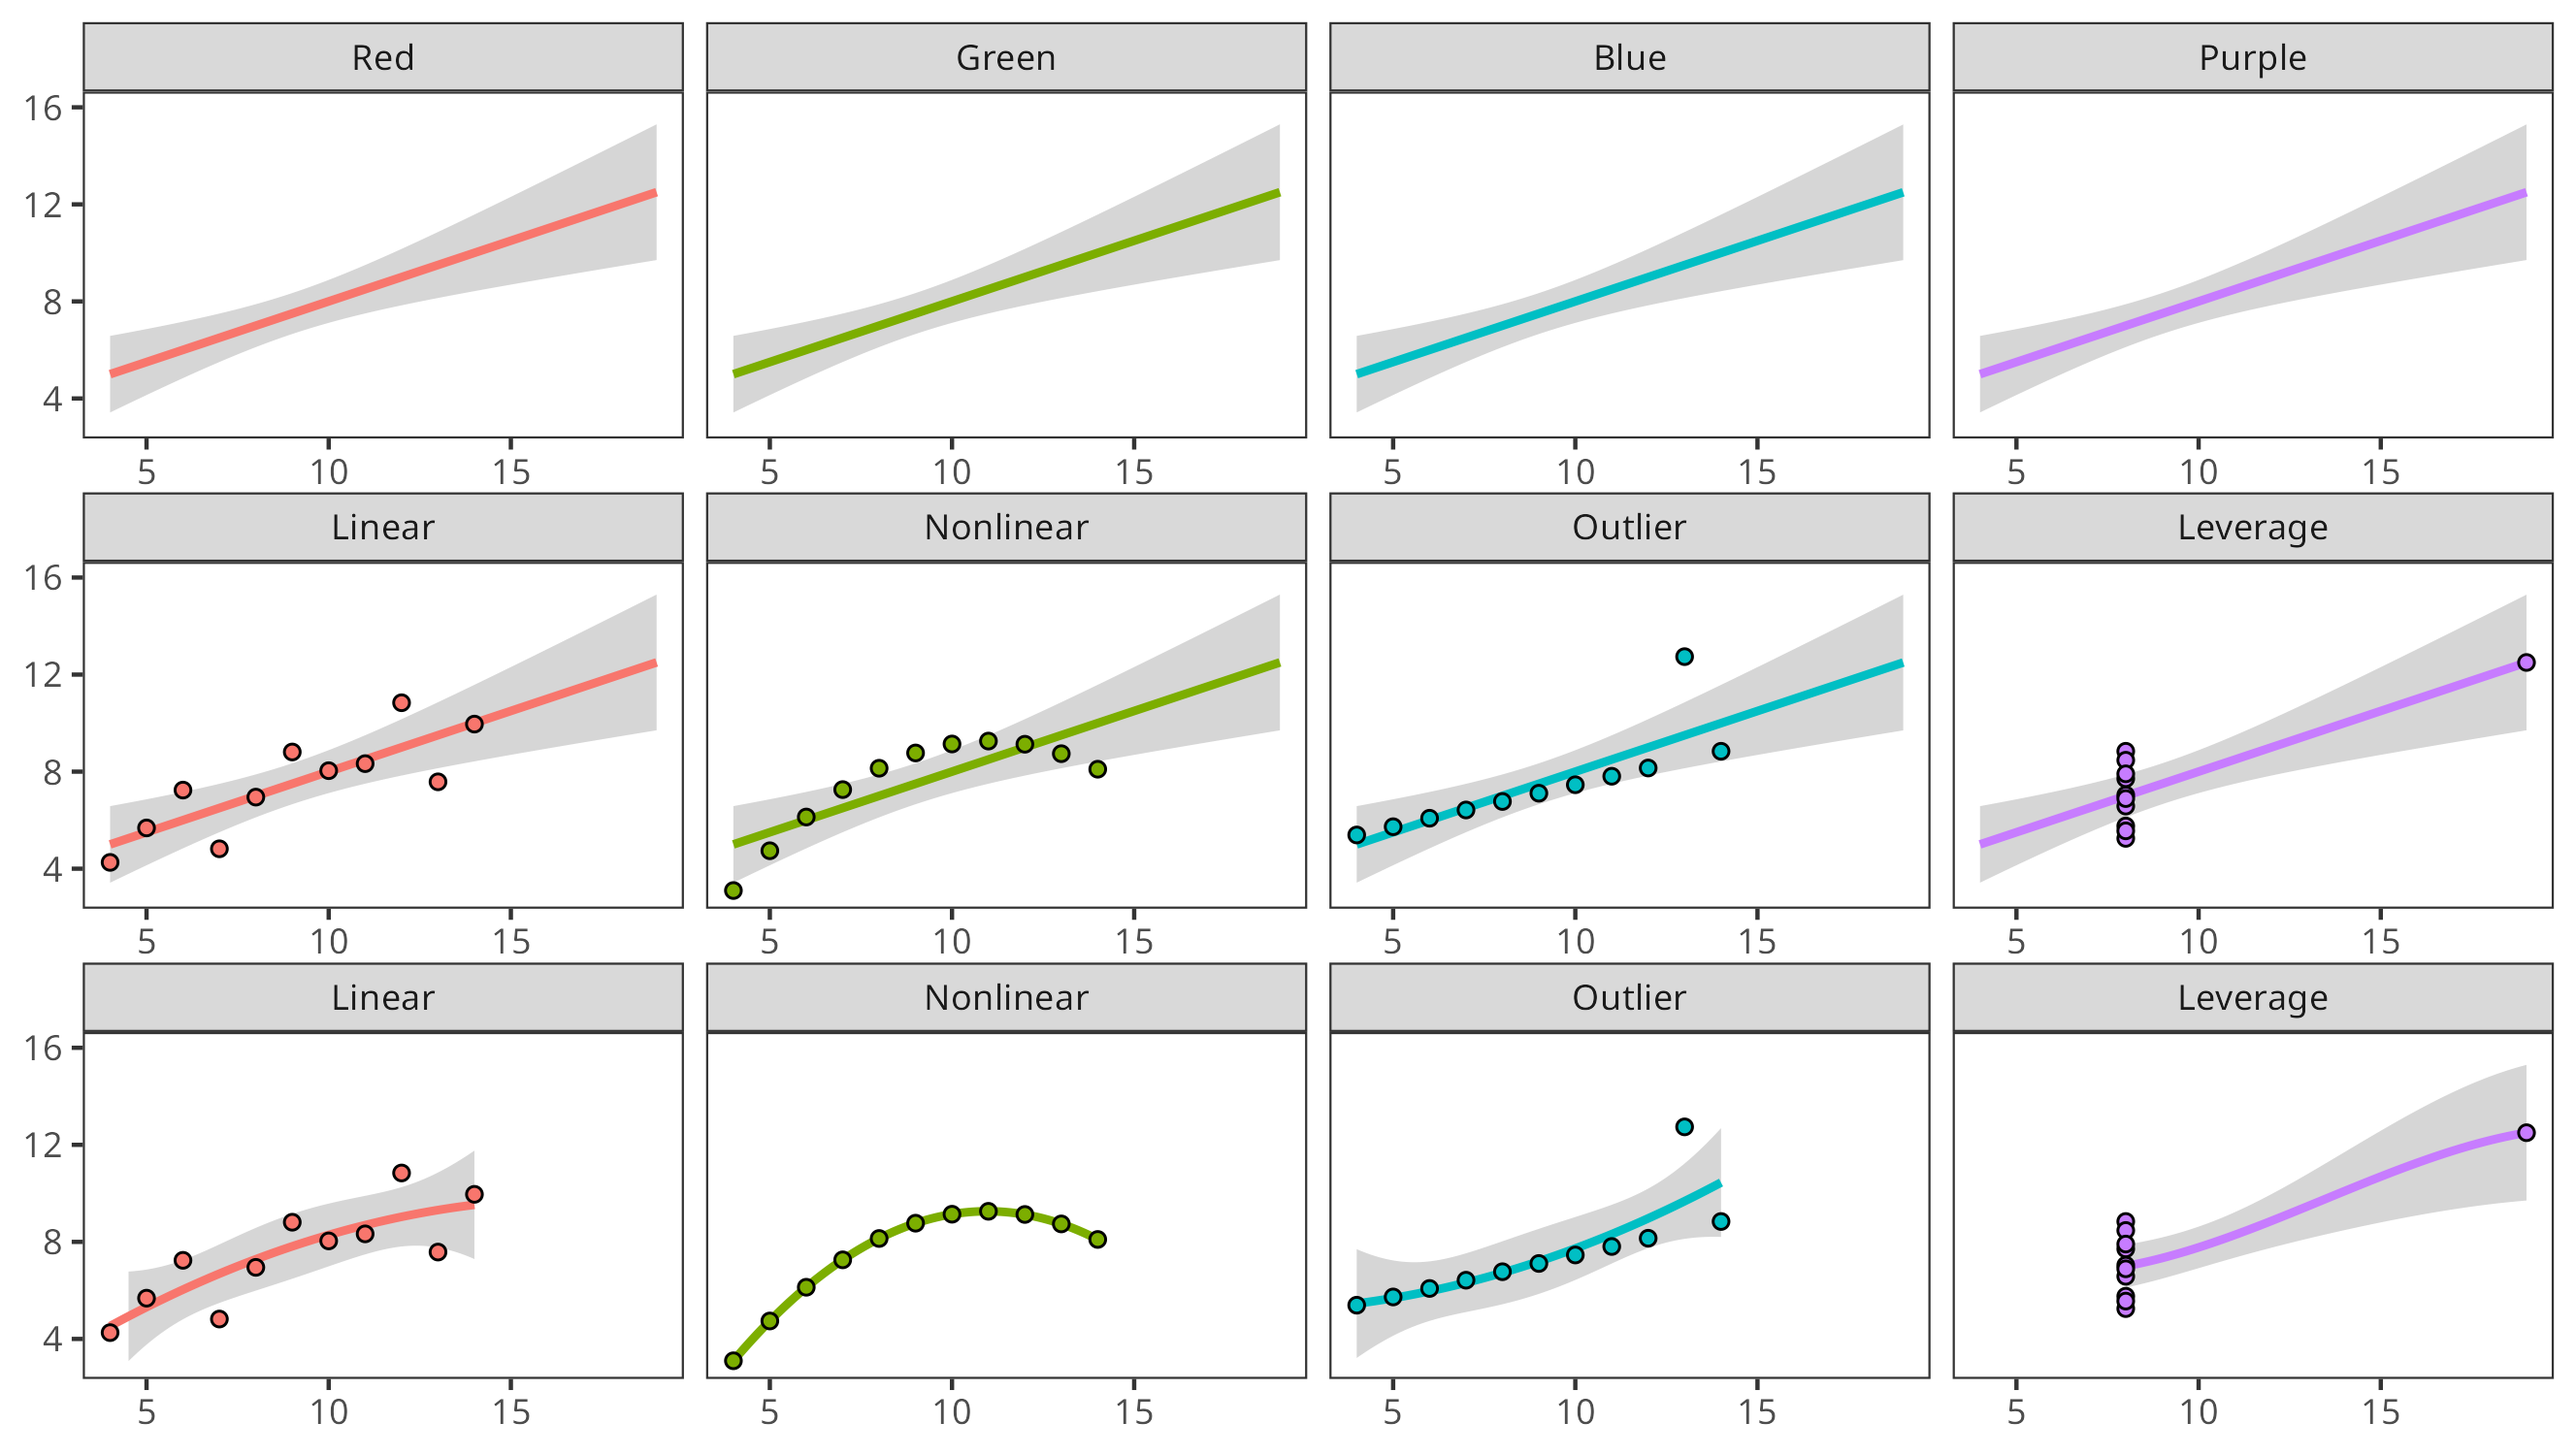
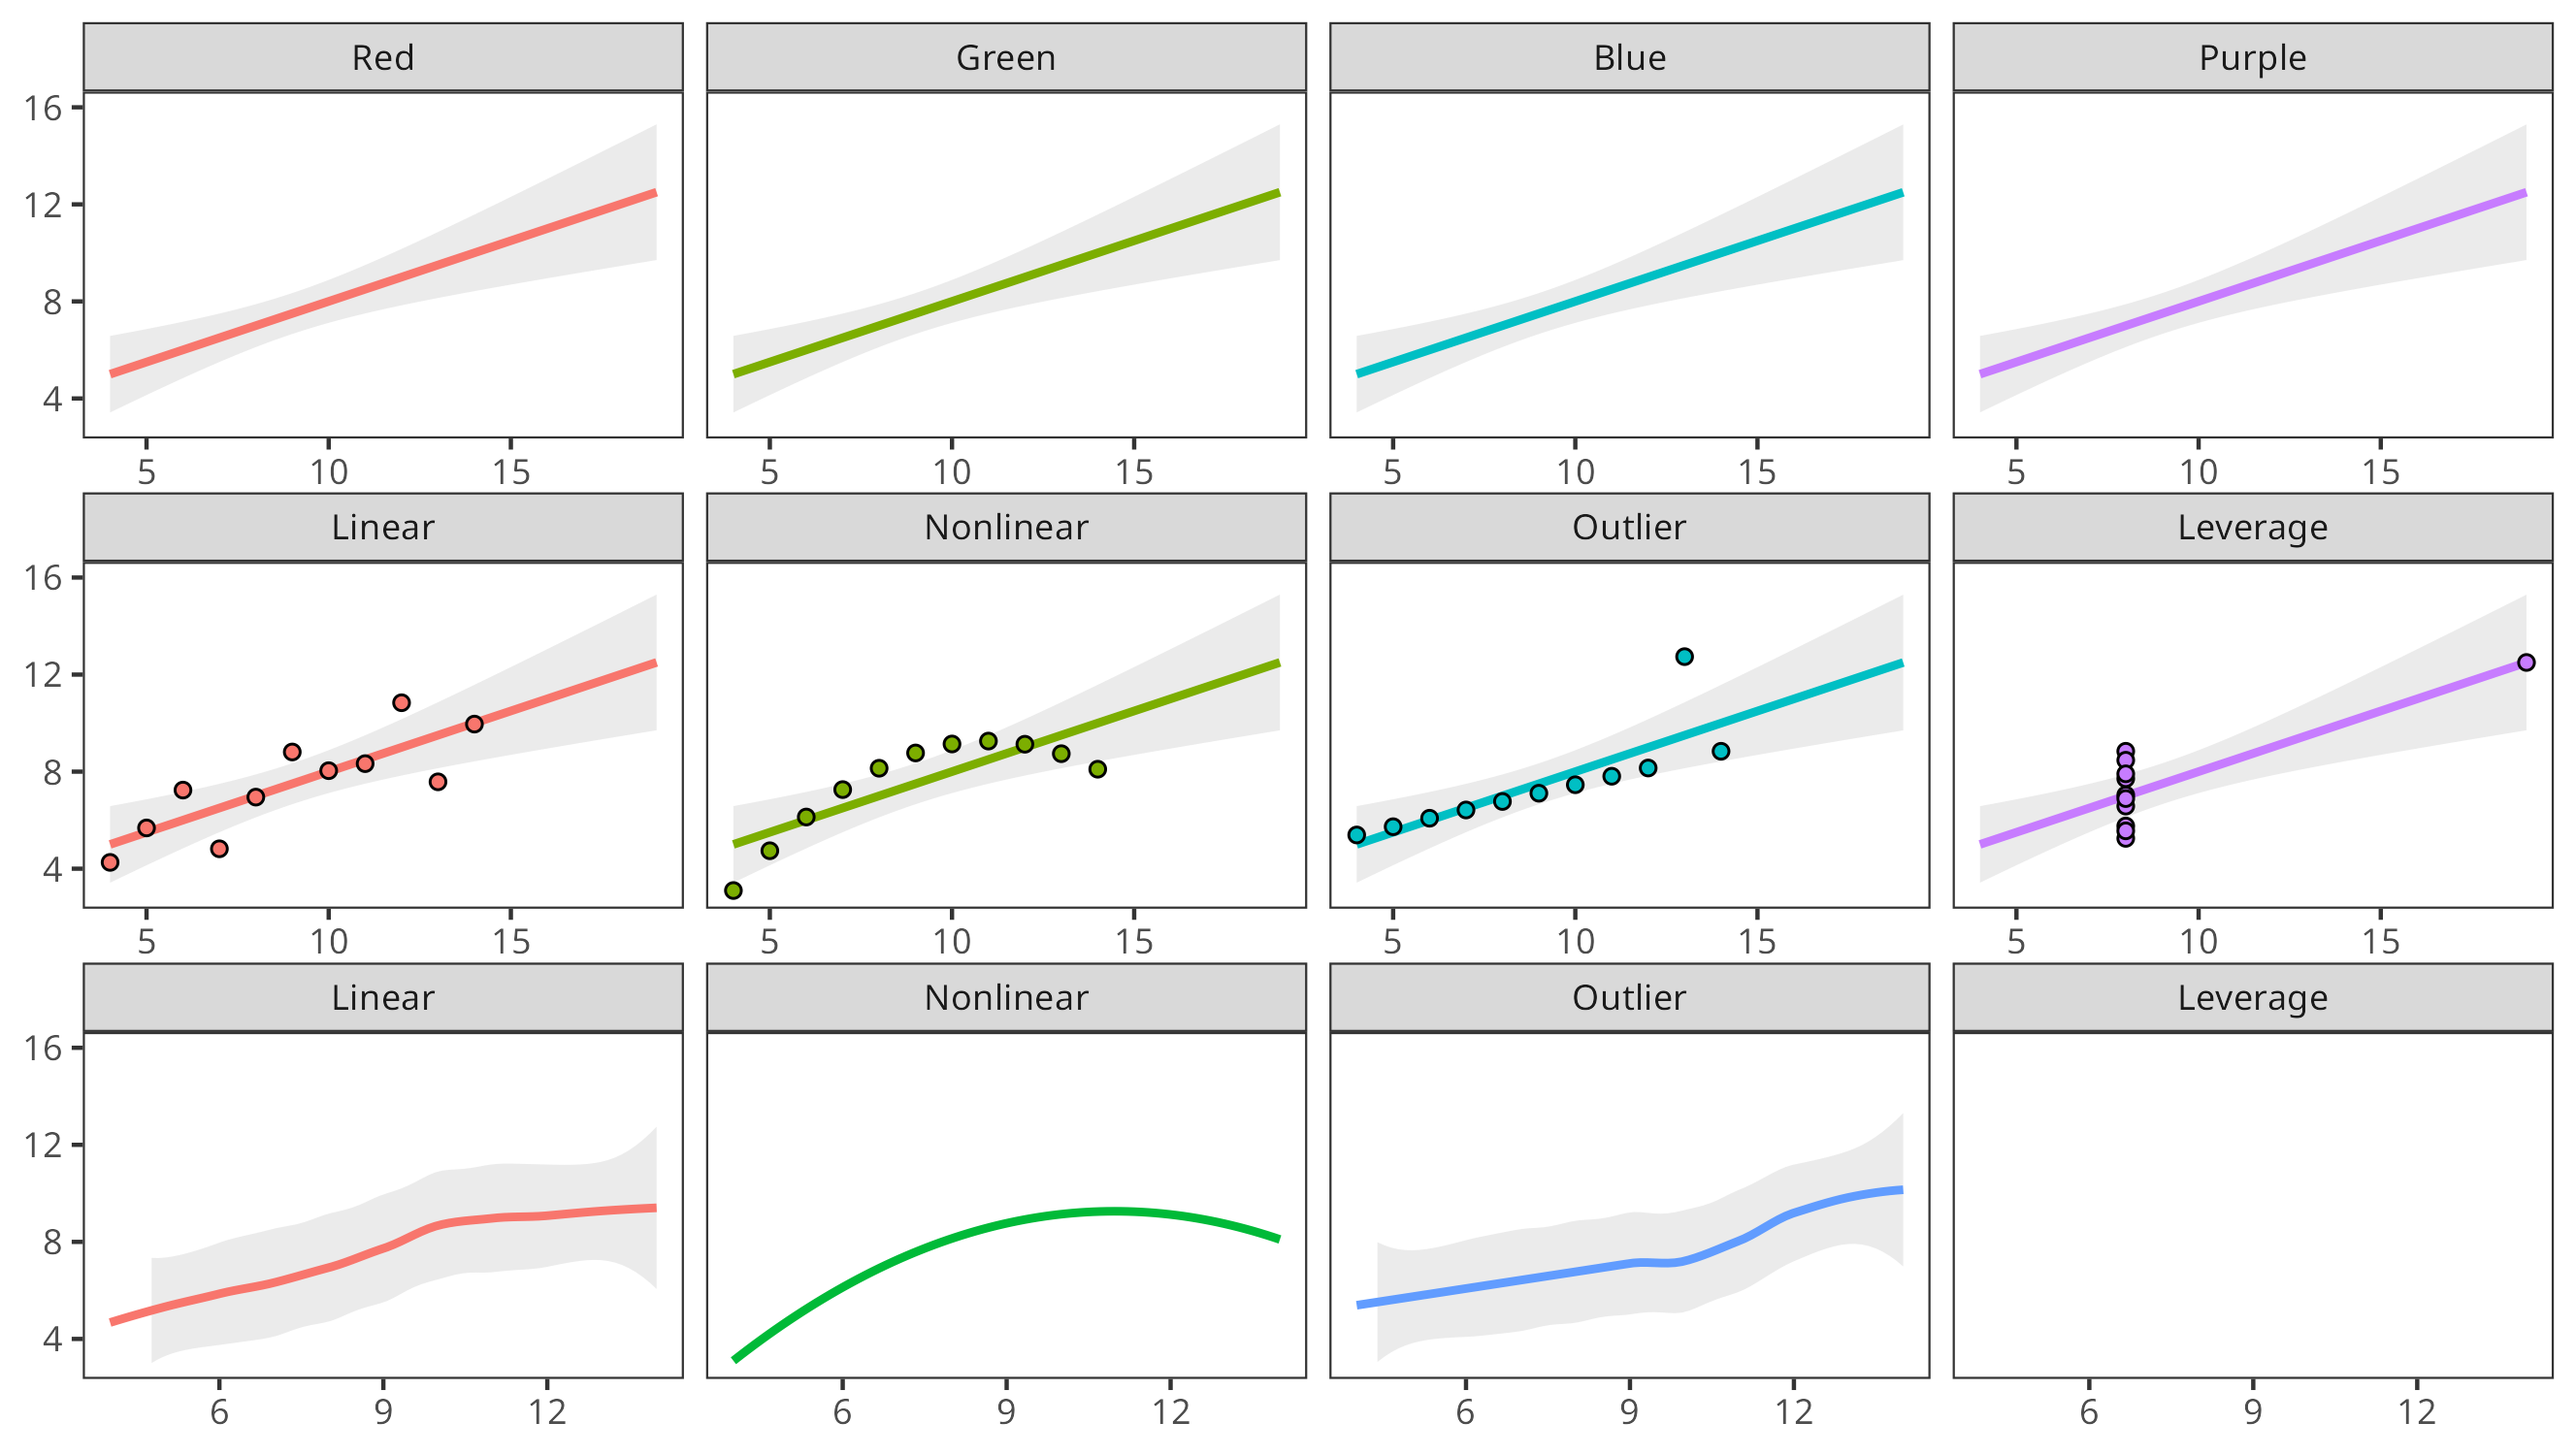
move demo to slides

diff --git a/inst/slides/slides.html b/inst/slides/slides.html
@@ -339,16 +339,24 @@ Matt Green
 </section>
 <section id="anscombes-quartet" class="slide level2">
 <h2>Anscombe’s Quartet</h2>
+<p>These datasets are all the same, right?</p>
 
 <img data-src="plot1.png" class="r-stretch"></section>
 <section id="anscombes-quartet-1" class="slide level2">
 <h2>Anscombe’s Quartet</h2>
+<p>No …</p>
 
 <img data-src="plot2.png" class="r-stretch"></section>
 <section id="anscombes-quartet-2" class="slide level2">
 <h2>Anscombe’s Quartet</h2>
+<p><strong>LOESS</strong> <strong>L</strong>ocally <strong>E</strong>stimated <strong>S</strong>catterplot <strong>S</strong>moothing</p>
 
-<img data-src="plot3.png" class="r-stretch"><div class="footer footer-default">
+<img data-src="plot3.png" class="r-stretch"></section>
+<section id="anscombes-quartet-3" class="slide level2">
+<h2>Anscombe’s Quartet</h2>
+<p><strong>LOESS</strong> with points</p>
+
+<img data-src="plot4.png" class="r-stretch"><div class="footer footer-default">
 
 </div>
 </section>
